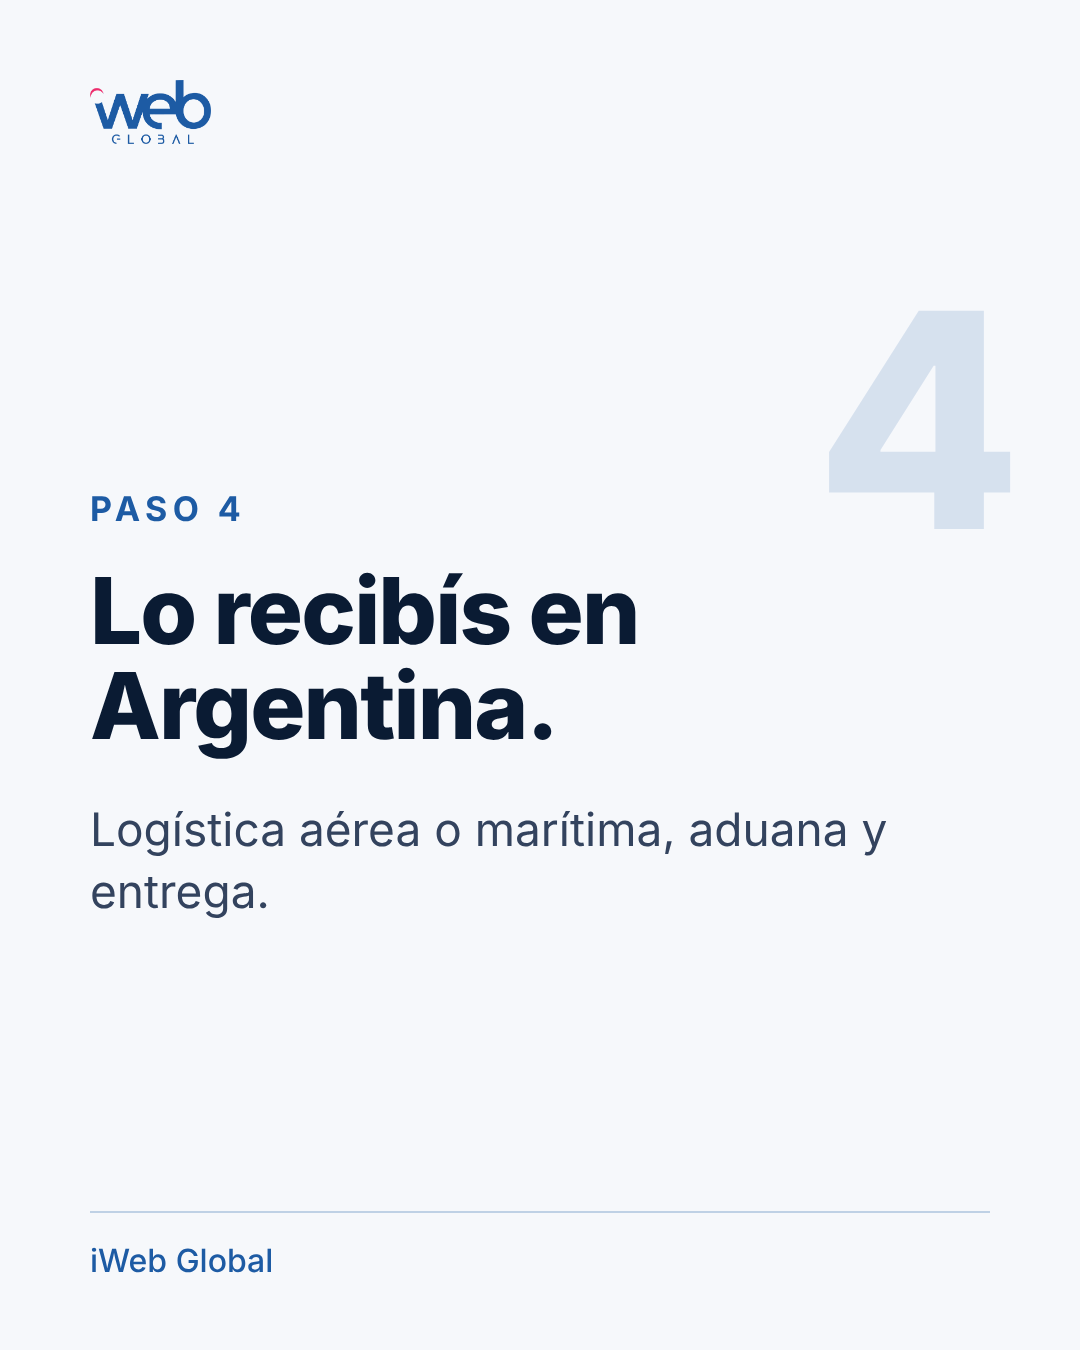
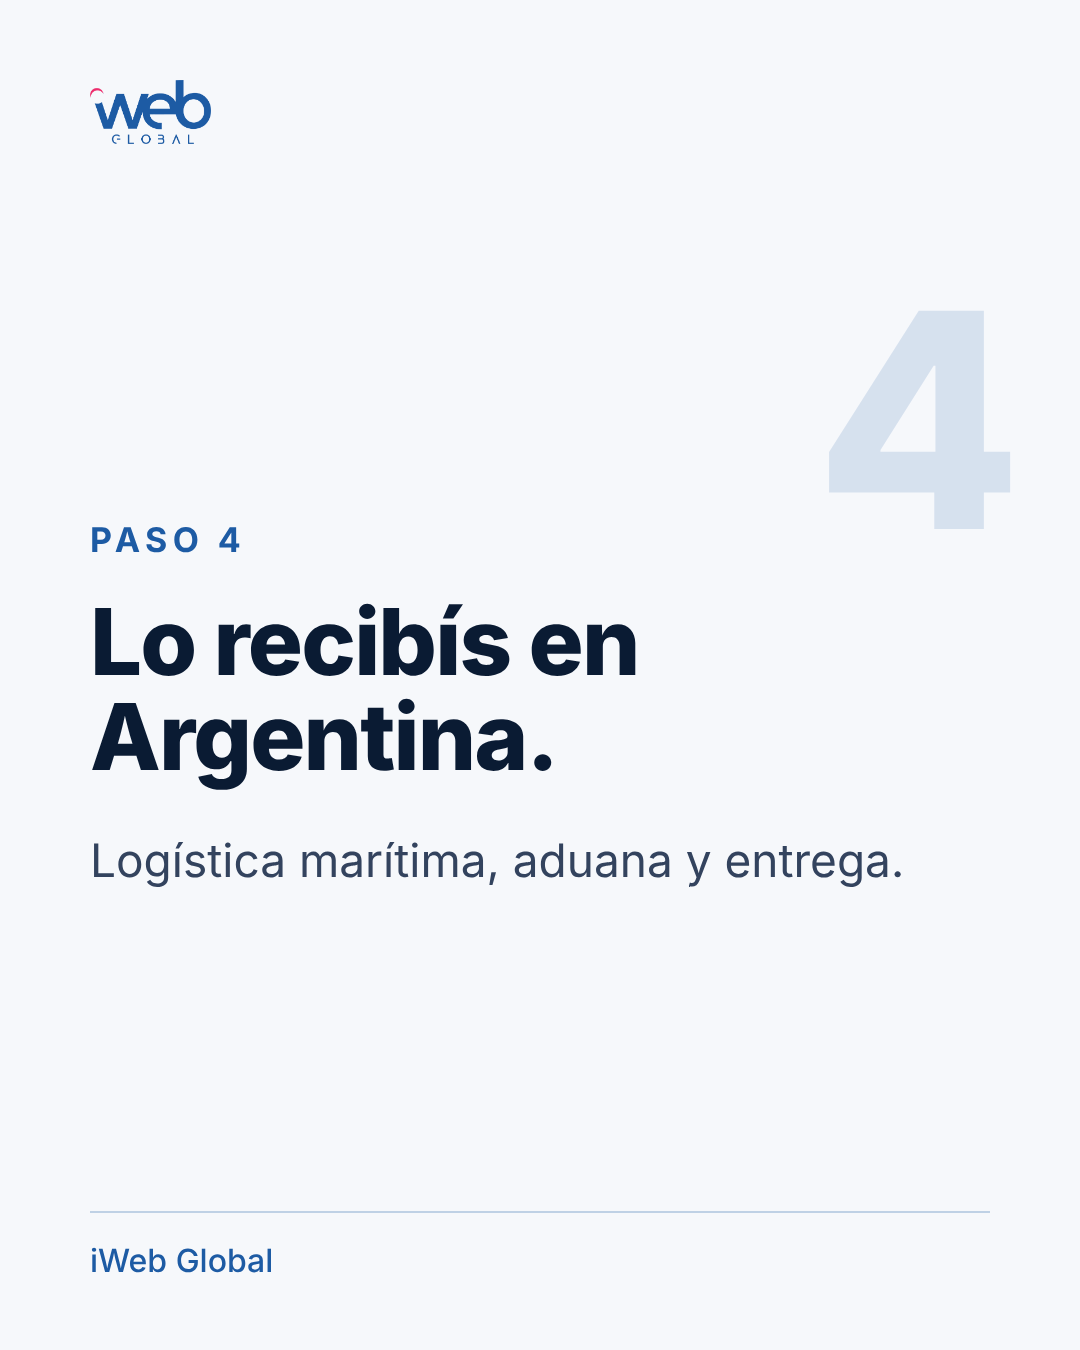
Carrusel: quita slide de WhatsApp y deja logística solo marítima
Claude-Session: https://claude.ai/code/session_01VCW4yuyHXYcFum5MdLEoRx

Changed region(s): [[0.0611, 0.3422, 0.825, 0.6844]]

diff --git a/iweb-global/carrusel-importa-sin-ser-importador/caption.md b/iweb-global/carrusel-importa-sin-ser-importador/caption.md
@@ -1,16 +1,16 @@
-# Carrusel 1: "Importá de China sin ser importador" (9 slides, 1080x1350)
+# Carrusel 1: "Importá de China sin ser importador" (8 slides, 1080x1350)
 
-Subir en orden: slide-01.png a slide-09.png.
+Subir en orden: slide-01.png a slide-08.png.
 
 ## Caption (copiar y pegar)
 
 Importar desde China sin ser importador: se puede, y los trámites no los hacés vos.
 
-Tenemos equipo propio en China que busca y negocia el producto. Nosotros importamos por vos: compra, control de calidad, consolidación de carga, logística aérea o marítima, aduana y entrega en Argentina. Podés delegar todo el proceso o solo algunas etapas.
+Tenemos equipo propio en China que busca y negocia el producto. Nosotros importamos por vos: compra, control de calidad, consolidación de carga, logística marítima, aduana y entrega en Argentina. Podés delegar todo el proceso o solo algunas etapas.
 
 Antes de comprar te mostramos el costo estimado puesto en destino: producto, comisión, flete, impuestos y tasas, despacho y entrega.
 
-👉 Para cotizar, escribinos por WhatsApp (link en bio) o comentá COTIZAR.
+👉 Pedí tu cotización en nuestra web (link en bio).
 
 La normativa de importación cambia con frecuencia; confirmamos los requisitos vigentes antes de cada operación.
 
